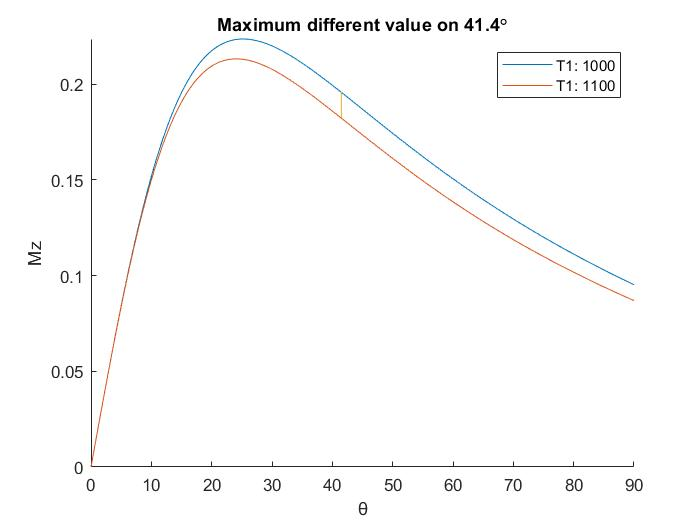
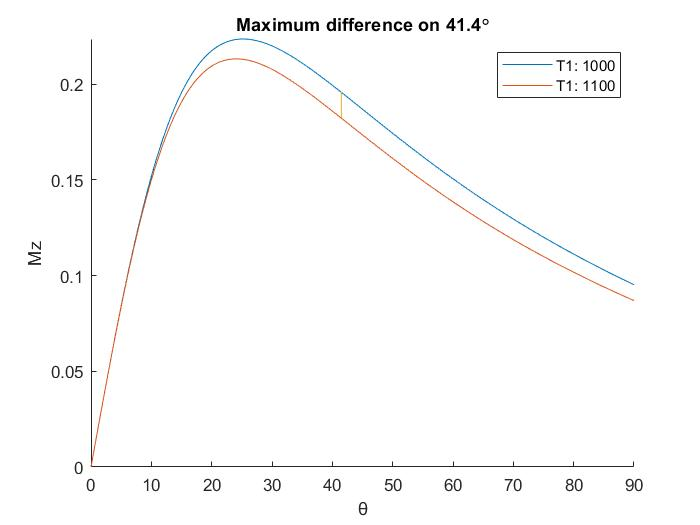
Minor update HW2.2 and Add README.md

Changed region(s): [[0.3, 0.0305, 0.72, 0.061]]

diff --git a/FLASH_HW2/README.md b/FLASH_HW2/README.md
@@ -1,0 +1,49 @@
+# MRI - HW2
+
+In this homework, we will discuss three topics.
+
+* Mxy and Mz
+* The angle of maximum brightness between two tissues
+* The subcortical volumes and Correlation
+
+## Mxy and Mz
+
+Simulate the timing of $M_z$ and $M_{xy}$.
+
+There are two states in the timing:
+
+* Excitation
+* Relaxation
+
+### **Excitation**
+
+$M_{z}=Mz*cos\alpha$
+
+$M_{xy}=Mz*sin\alpha$
+
+### **Relaxation**
+
+$M_{z}=1+(M_z-1)*e(-\frac{TR}{T1})$
+
+$M_{xy}=M_{xy}*e(-\frac{TR}{T2^*})$
+
+### **Iteration**
+
+After times of RF excitation, $M_z$ and $M_{xy}$ will be stable.
+
+![M_z stable](images/HW2.1.1.jpg)
+
+![M_xy stable](images/HW2.1.2.jpg)
+
+## The angle of maximum brightness between two tissues
+
+We have two tissues, that means there are two T1 value: **1000** and **1100** ms.
+
+By the equation:
+$M\propto(\frac{(1-e^{-TR/T1})*sin\alpha}{1-e^{-TR/T1}*cos\alpha})e^{-TE/T2^*}$
+
+We can use `difference of number two` to find the angle of maximum brightness between two tissues.
+
+![maximum difference](images/HW2.2.jpg)
+
+## The subcortical volumes and Correlation
